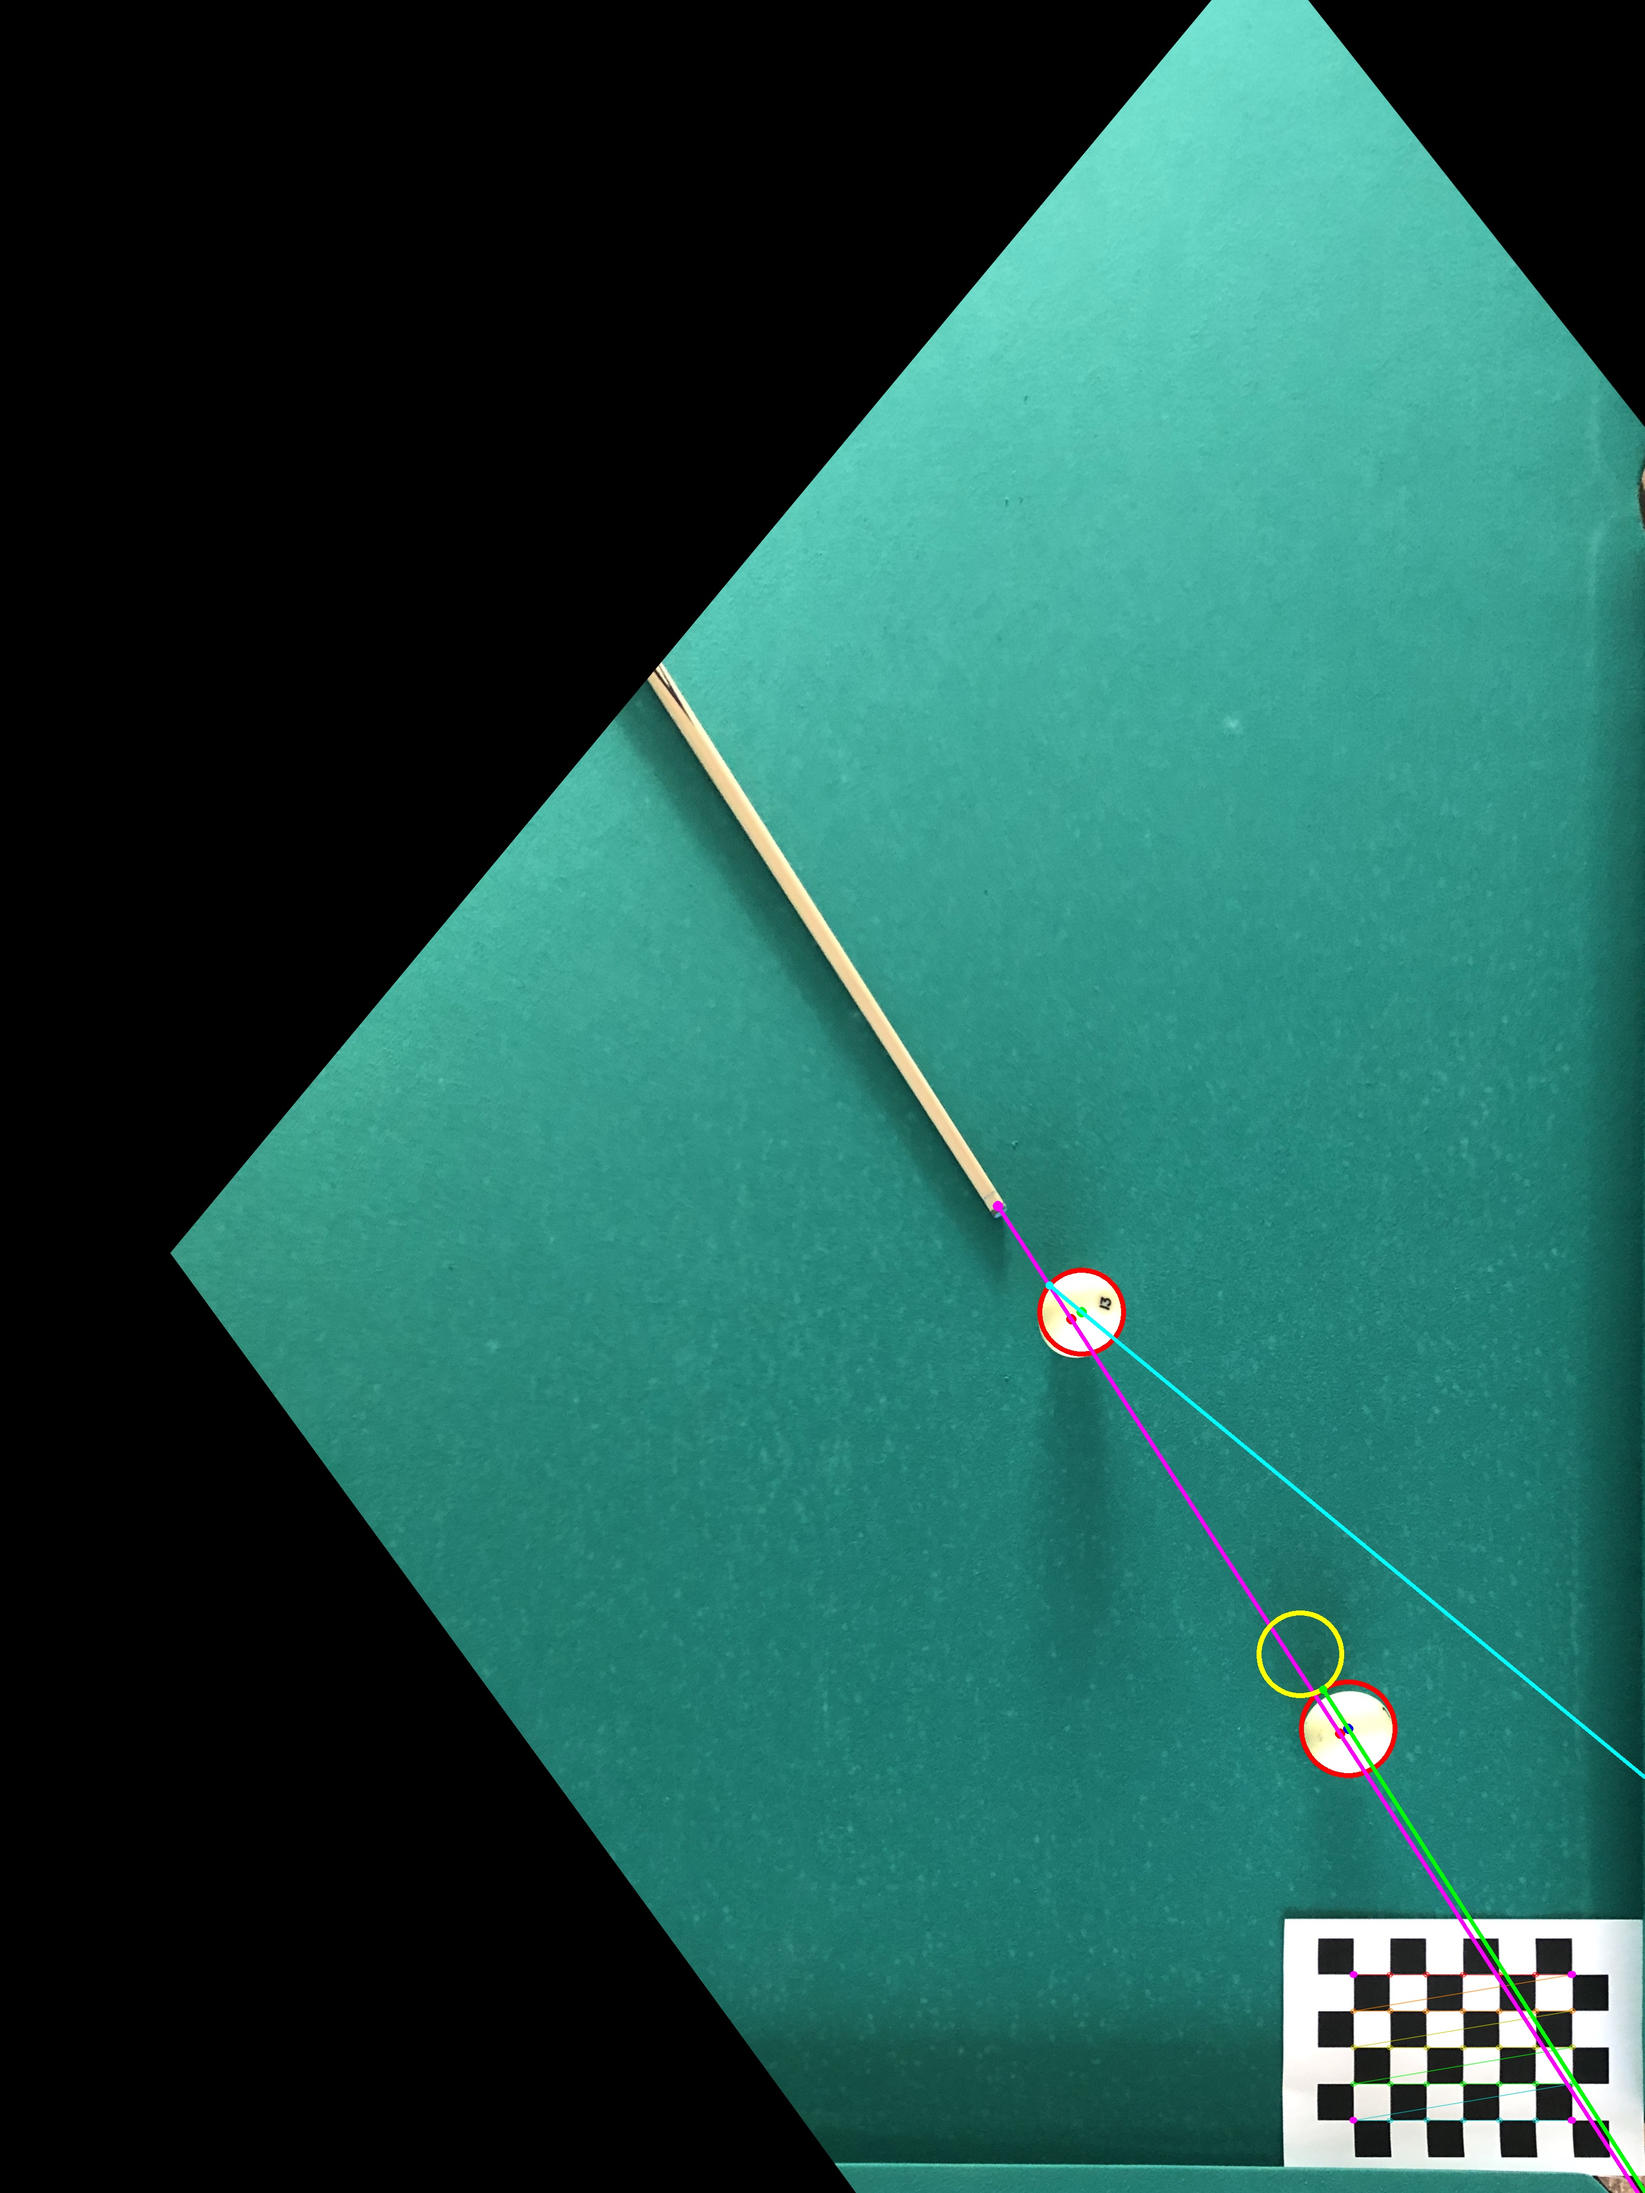
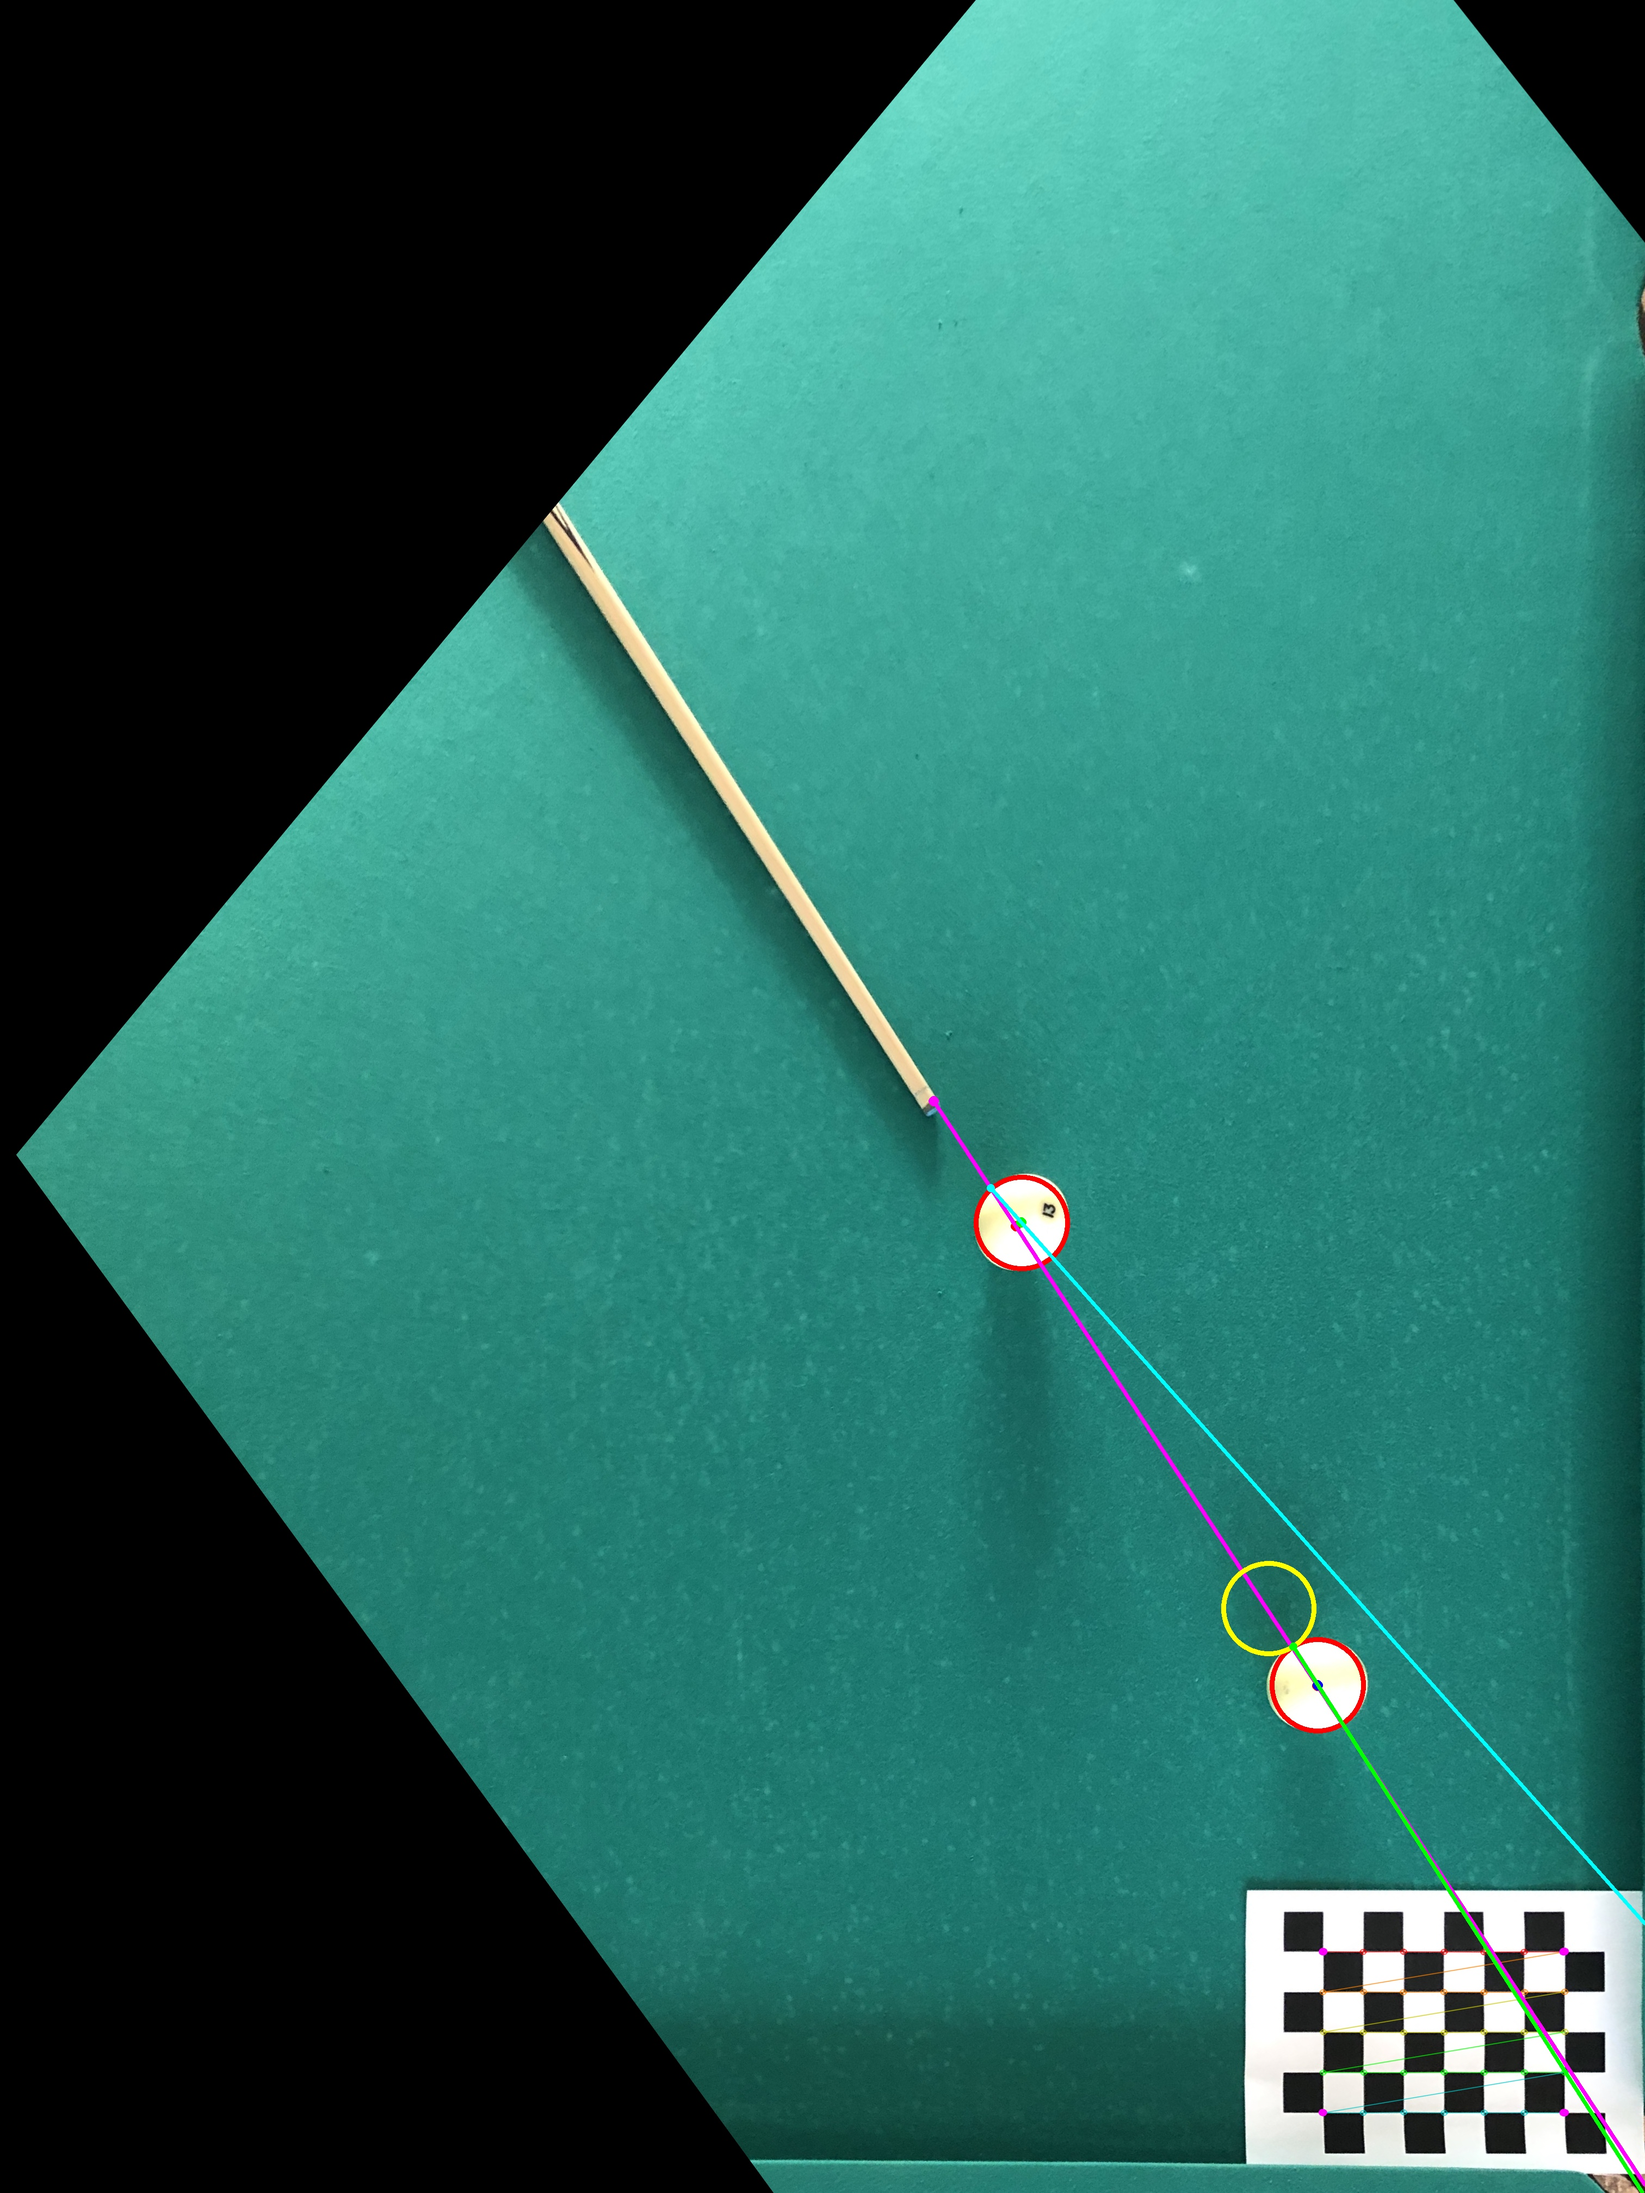
Use real ball radius

diff --git a/balls_direction.py b/balls_direction.py
@@ -14,6 +14,7 @@ def get_edges(img):
     return edges
 
 def get_circlies(img):
+    ball_pixel_size = 68 / 2 * square_pixel_size / 30
     circles = cv2.HoughCircles(
         img,
         cv2.HOUGH_GRADIENT,
@@ -21,10 +22,13 @@ def get_circlies(img):
         50,
         param1=50,
         param2=30,
-        minRadius=55,
-        maxRadius=100
+        minRadius=int(ball_pixel_size) - 10,
+        maxRadius=int(ball_pixel_size) + 10
     )
-    return np.squeeze(circles)
+    res = np.squeeze(circles)
+    for c in res:
+        c[2] = ball_pixel_size
+    return res
 
 def fix_perspective(img):
     gray = cv2.cvtColor(img,cv2.COLOR_BGR2GRAY)
@@ -35,19 +39,19 @@ def fix_perspective(img):
 
     corners = np.float32([[x[0,0], x[0, 1]] for x in corners])
 
-    dists = 0
-    cnt = 0
-    for i in range(0, W - 1):
-        for j in range(0, H - 1):
-            a = corners[j * 7 + i]
-            cue_b = corners[j * 7 + i + 1]
-            dists += np.linalg.norm(a-cue_b)
-            cnt += 1
+    wavg = 0
+    for i in range(0, W):
+        wavg += np.linalg.norm(corners[i] - corners[28 + i])
+    wavg /= W * (H - 1)
 
-    step = int(math.ceil(dists / cnt))
+    havg = 0
+    for i in range(0, H):
+        havg += np.linalg.norm(corners[i * 7] - corners[i * 7 + 6])
+    havg /= H * (W - 1)
+
+    step = int(math.ceil((wavg + havg) / 2))
     global square_pixel_size
     square_pixel_size = step
-
     corners = np.float32([corners[0], corners[28], corners[34], corners[6]])
 
     h, w, _ = img.shape
